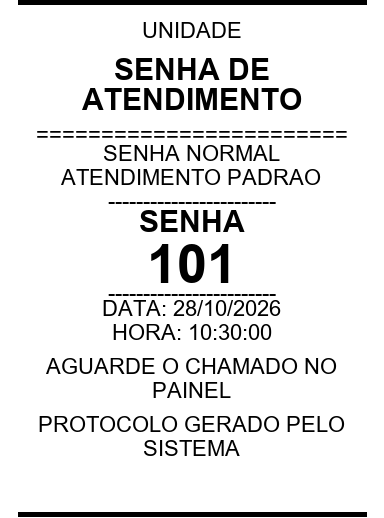
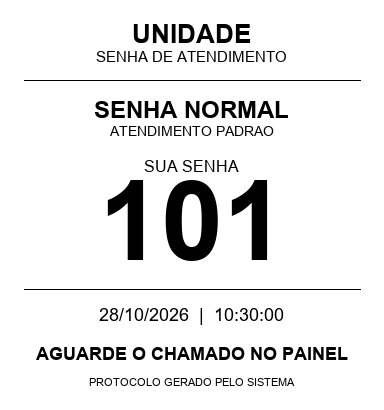
Mudando layout

Changed region(s): [[0.0312, 0.0, 0.9688, 0.878], [0.0312, 0.9073, 0.9688, 1.0]]

diff --git a/app/printer.py b/app/printer.py
@@ -501,57 +501,66 @@ def _build_receipt_lines(numero: str, tipo: str, unidade: str, data_hora: dateti
 
 
 def _render_receipt_image(lines: list[str], width: int):
-    bg = "white"
-    fg = "black"
-    margin = 18
-    font_title = _load_font(30, bold=True)
-    font_label = _load_font(22, bold=False)
-    font_number = _load_font(54, bold=True)
+    """Diagrama o comprovante em preto e branco para impressao termica."""
+    scale = width / 384
+    margin = max(12, round(24 * scale))
+    available = width - margin * 2
+    canvas = Image.new("RGB", (width, 1), "white")
+    measure = ImageDraw.Draw(canvas)
+    commands = []
+    y = round(24 * scale)
 
-    # Primeiro calcula a altura necessária com uma versão temporária do desenho.
-    temp = Image.new("RGB", (width, 2000), bg)
-    draw = ImageDraw.Draw(temp)
-    y = margin
-    for line in lines:
-        font = font_number if line == lines[9] else font_title if line in {"CUPOM DE TESTE", "SENHA DE ATENDIMENTO", "SENHA"} else font_label
-        wrapped = _wrap_for_width(draw, line, font, width - (margin * 2))
-        if not wrapped:
-            y += 10
-            continue
-        for part in wrapped:
-            bbox = draw.textbbox((0, 0), part, font=font)
-            line_height = bbox[3] - bbox[1]
-            y += line_height + 8
-    height = y + margin + 40
+    def space(value):
+        nonlocal y
+        y += round(value * scale)
 
-    image = Image.new("RGB", (width, height), bg)
+    def text(value, size, bold=False, gap=8, fit=False):
+        nonlocal y
+        font_size = max(10, round(size * scale))
+        font = _load_font(font_size, bold=bold)
+        if fit:
+            while measure.textbbox((0, 0), value, font=font)[2] > available and font_size > 10:
+                font_size -= 1
+                font = _load_font(font_size, bold=bold)
+        for part in _wrap_for_width(measure, value, font, available):
+            bbox = measure.textbbox((0, 0), part, font=font)
+            x = (width - (bbox[2] - bbox[0])) // 2 - bbox[0]
+            commands.append(("text", (x, y - bbox[1]), part, font))
+            y += bbox[3] - bbox[1] + round(gap * scale)
+
+    def rule():
+        nonlocal y
+        commands.append(("line", (margin, y, width - margin, y)))
+        y += max(1, round(scale))
+
+    text(lines[0], 26, bold=True)
+    text(lines[2], 15, gap=0)
+    space(18)
+    rule()
+    space(20)
+    text(lines[5], 24, bold=True)
+    text(lines[6], 14)
+    space(16)
+    text("SUA SENHA", 16)
+    text(lines[9], 112, bold=True, gap=0, fit=True)
+    space(28)
+    rule()
+    space(18)
+    text(lines[11].replace("DATA: ", "") + "  |  " + lines[12].replace("HORA: ", ""), 18)
+    space(14)
+    text(lines[14], 18, bold=True, gap=6)
+    space(12)
+    text("PROTOCOLO GERADO PELO SISTEMA", 11, gap=0)
+    space(24)
+
+    image = Image.new("RGB", (width, y), "white")
     draw = ImageDraw.Draw(image)
-    y = margin
-    for line in lines:
-        if line == "SENHA":
-            font = font_title
-        elif line == lines[9]:
-            font = font_number
-        elif line in {"CUPOM DE TESTE", "SENHA DE ATENDIMENTO"}:
-            font = font_title
+    for command in commands:
+        if command[0] == "text":
+            draw.text(command[1], command[2], font=command[3], fill="black")
         else:
-            font = font_label
-
-        wrapped = _wrap_for_width(draw, line, font, width - (margin * 2))
-        if not wrapped:
-            y += 10
-            continue
-        for part in wrapped:
-            bbox = draw.textbbox((0, 0), part, font=font)
-            line_width = bbox[2] - bbox[0]
-            line_height = bbox[3] - bbox[1]
-            x = max(int((width - line_width) / 2), margin)
-            draw.text((x, y), part, font=font, fill=fg)
-            y += line_height + 8
-
-    draw.rectangle((margin, 0, width - margin, 4), fill=fg)
-    draw.rectangle((margin, height - 6, width - margin, height - 2), fill=fg)
-    return image.convert("RGB")
+            draw.line(command[1], fill="black", width=max(1, round(scale)))
+    return image
 
 
 def _wrap_for_width(draw, text: str, font, max_width: int) -> list[str]:
